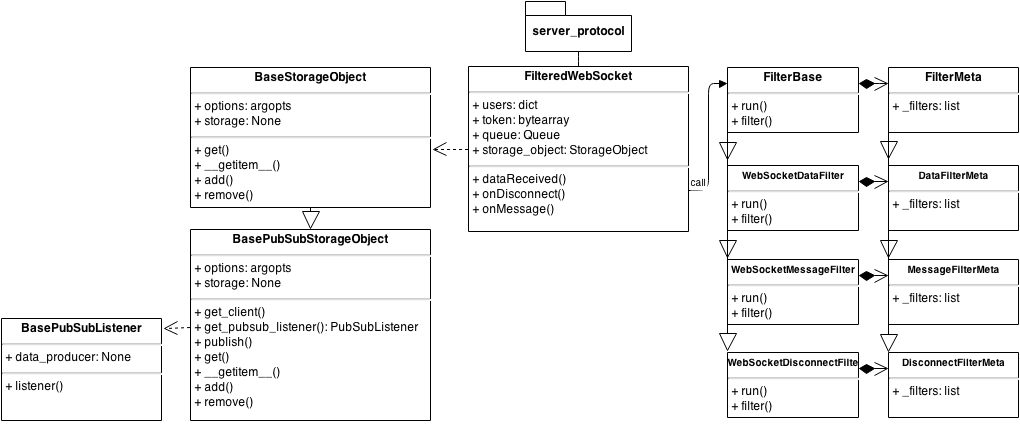
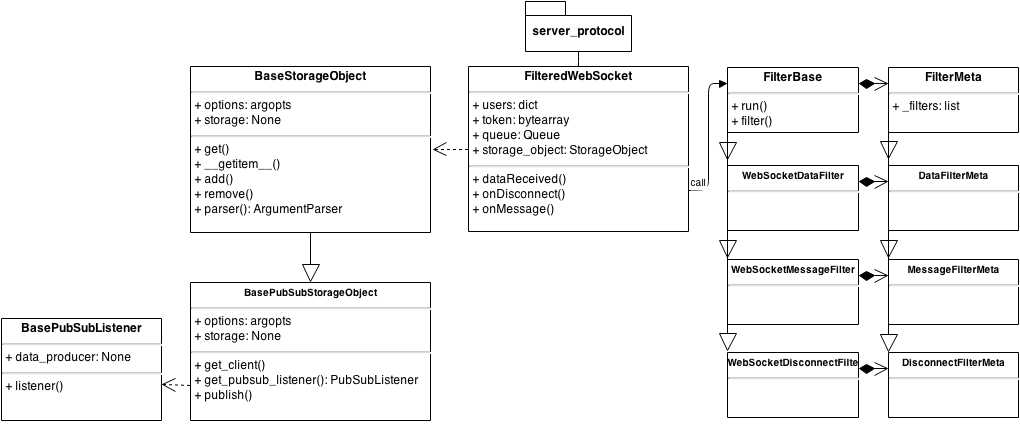
Adds a parser method to the storage_object base class.

diff --git a/filtered_websocket/storage_objects/base.py b/filtered_websocket/storage_objects/base.py
@@ -16,6 +16,13 @@ class BaseStorageObject(object):
     def remove(self, key, value):
         raise NotImplementedError
 
+    @classmethod
+    def parser(cls, parser):
+        """
+        Intended for attaching additional arguments to an ArgumentParser.
+        """
+        return parser
+
 
 class BasePubSubStorageObject(BaseStorageObject):
     """

diff --git a/filtered_websocket/storage_objects/default.py b/filtered_websocket/storage_objects/default.py
@@ -18,10 +18,3 @@ class StorageObject(BaseStorageObject):
 
     def __getitem__(self, item):
         return self.get(item)
-
-    @classmethod
-    def parser(cls, parser):
-        """
-        Attach any storage object specific options to the arg parser.
-        """
-        return parser
